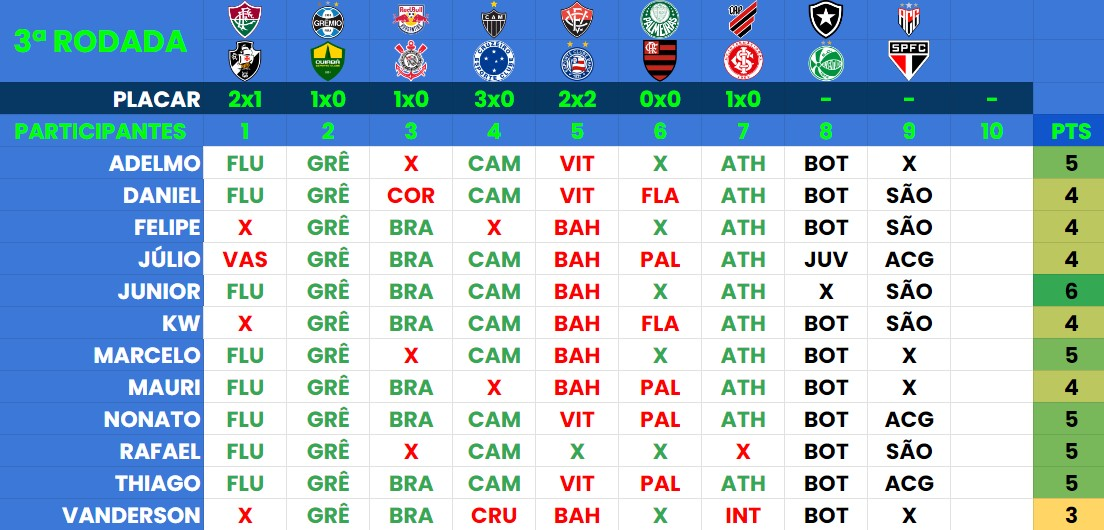
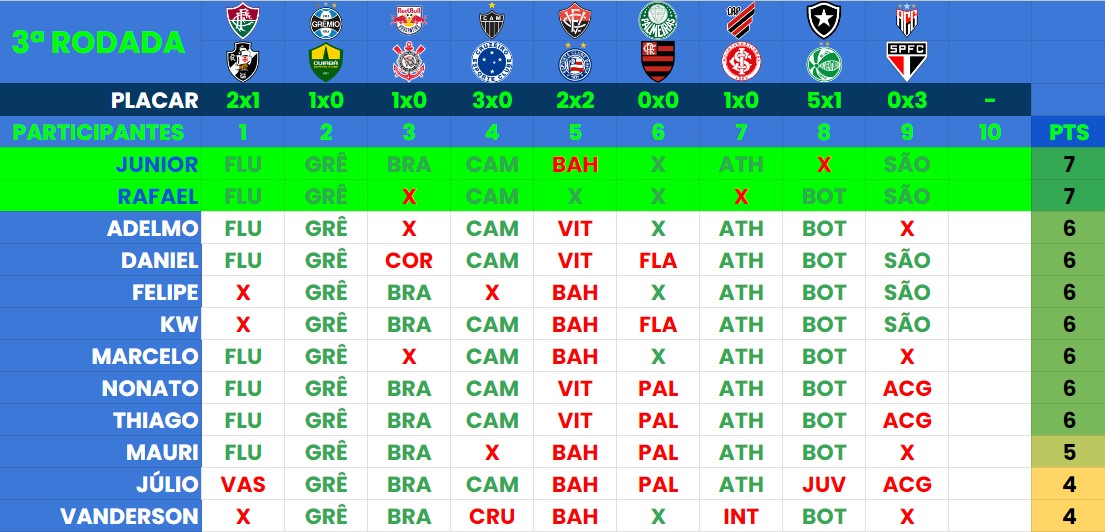
U

diff --git a/index.html b/index.html
@@ -51,10 +51,10 @@
           <img src="./assets/Round3.jpg" alt="Logo do Campeonato Brasileiro 2022" />
         </div>
         <div class="text">
-          <h2 class="title"><a href="./predictor.html">MERCADO FECHADO</a>
+          <h2 class="title"><a href="./predictor.html">Júnior e Rafael vencem a Rodada 3</a>
           </h2>
           <p>
-            Bola rolando para a 3ª Rodada do Bolão
+            Dupla marca 7 pontos cada e lidera a 3ª Rodada
           </p>
           <a class="button" href="./predictor.html">RESUMÃO DOS PALPITES</a>
         </div>
@@ -177,17 +177,7 @@
           <div class="content">
             <h2 class="rank"><small>#</small>1</h2>
             <h4>Adelmo</h4>
-            <p>12 Pontos</p>
-          </div>
-        </div>
-        <div class="list">
-          <div class="imgBx">
-            <img src="./assets/fotos/fortaleza.png">
-          </div>
-          <div class="content">
-            <h2 class="rank"><small>#</small>2</h2>
-            <h4>Júlio</h4>
-            <p>12 Pontos</p>
+            <p>18 Pontos</p>
           </div>
         </div>
         <div class="list">
@@ -195,9 +185,9 @@
             <img src="./assets/fotos/bahia.png">
           </div>
           <div class="content">
-            <h2 class="rank"><small>#</small>3</h2>
+            <h2 class="rank"><small>#</small>2</h2>
             <h4>Júnior</h4>
-            <p>11 Pontos</p>
+            <p>18 Pontos</p>
           </div>
         </div>
         <div class="list">
@@ -205,9 +195,9 @@
             <img src="./assets/fotos/fortaleza.png">
           </div>
           <div class="content">
-            <h2 class="rank"><small>#</small>4</h2>
+            <h2 class="rank"><small>#</small>3</h2>
             <h4>KW</h4>
-            <p>11 Pontos</p>
+            <p>17 Pontos</p>
           </div>
         </div>
         <div class="list">
@@ -215,9 +205,19 @@
             <img src="./assets/fotos/palmeiras.png">
           </div>
           <div class="content">
-            <h2 class="rank"><small>#</small>5</h2>
+            <h2 class="rank"><small>#</small>4</h2>
             <h4>Rafael</h4>
-            <p>10 Pontos</p>
+            <p>17 Pontos</p>
+          </div>
+        </div>
+        <div class="list">
+          <div class="imgBx">
+            <img src="./assets/fotos/fortaleza.png">
+          </div>
+          <div class="content">
+            <h2 class="rank"><small>#</small>5</h2>
+            <h4>Júlio</h4>
+            <p>16 Pontos</p>
           </div>
         </div>
         <div class="list">
@@ -227,7 +227,7 @@
           <div class="content">
             <h2 class="rank"><small>#</small>6</h2>
             <h4>Daniel</h4>
-            <p>9 Pontos</p>
+            <p>15 Pontos</p>
           </div>
         </div>
         <div class="list">
@@ -237,7 +237,7 @@
           <div class="content">
             <h2 class="rank"><small>#</small>7</h2>
             <h4>Nonato</h4>
-            <p>9 Pontos</p>
+            <p>15 Pontos</p>
           </div>
         </div>
         <div class="list">
@@ -247,7 +247,7 @@
           <div class="content">
             <h2 class="rank"><small>#</small>8</h2>
             <h4>Marcelo</h4>
-            <p>9 Pontos</p>
+            <p>15 Pontos</p>
           </div>
         </div>
         <div class="list">
@@ -257,7 +257,7 @@
           <div class="content">
             <h2 class="rank"><small>#</small>9</h2>
             <h4>Felipe</h4>
-            <p>8 Pontos</p>
+            <p>14 Pontos</p>
           </div>
         </div>
         <div class="list">
@@ -267,7 +267,7 @@
           <div class="content">
             <h2 class="rank"><small>#</small>10</h2>
             <h4>Mauri</h4>
-            <p>8 Pontos</p>
+            <p>13 Pontos</p>
           </div>
         </div>
         <div class="list">
@@ -277,7 +277,7 @@
           <div class="content">
             <h2 class="rank"><small>#</small>11</h2>
             <h4>Thiago</h4>
-            <p>7 Pontos</p>
+            <p>13 Pontos</p>
           </div>
         </div>
         <div class="list">
@@ -287,7 +287,7 @@
           <div class="content">
             <h2 class="rank"><small>#</small>12</h2>
             <h4>Vanderson</h4>
-            <p>5 Pontos</p>
+            <p>9 Pontos</p>
           </div>
         </div>
       </div>
